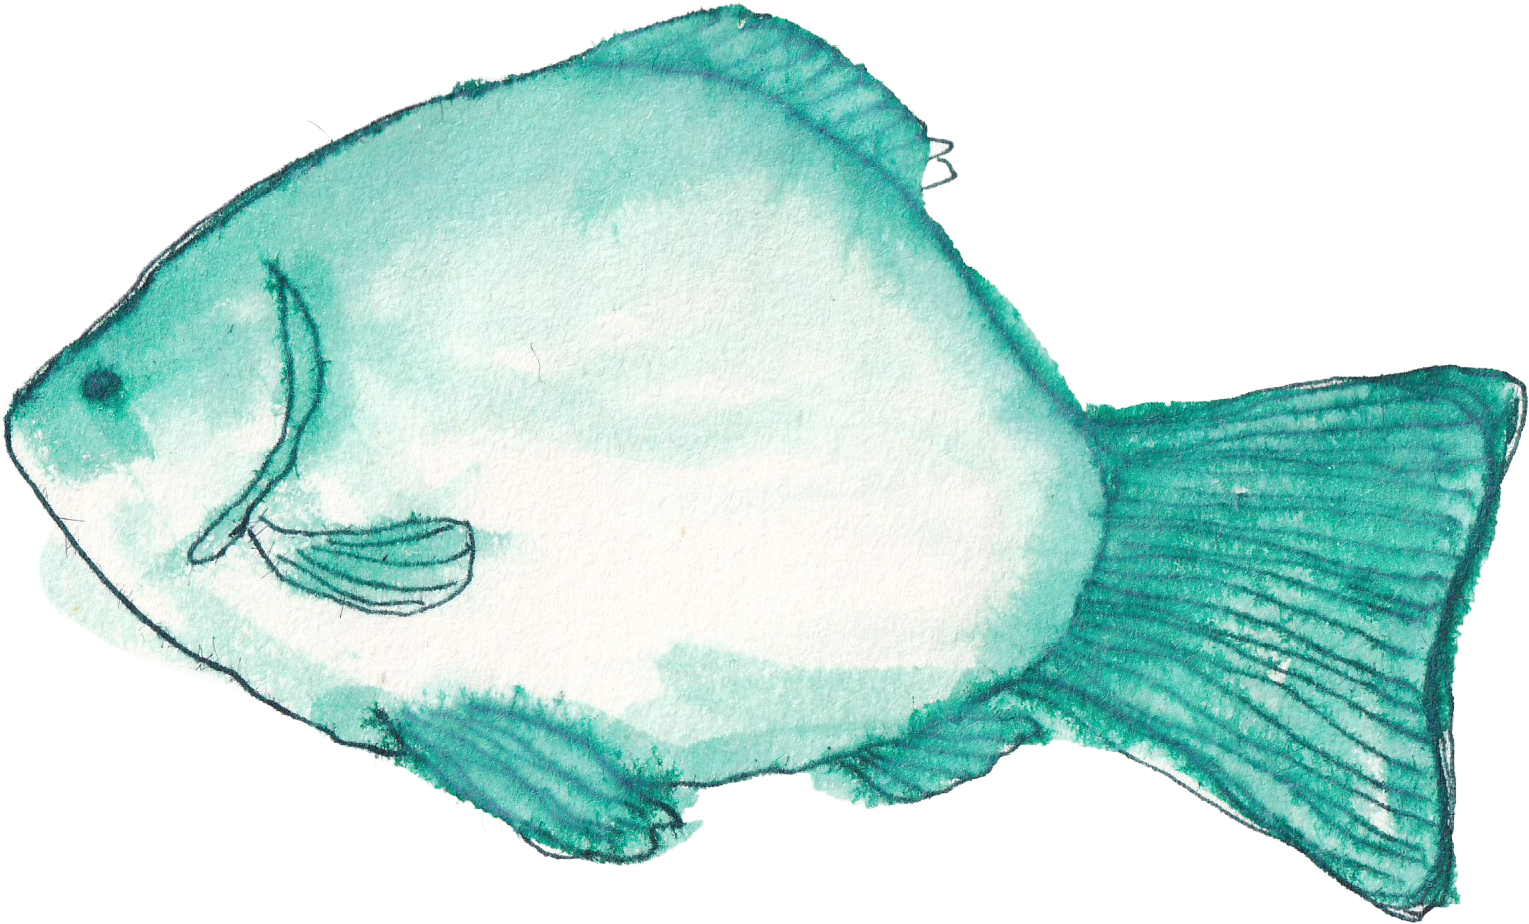
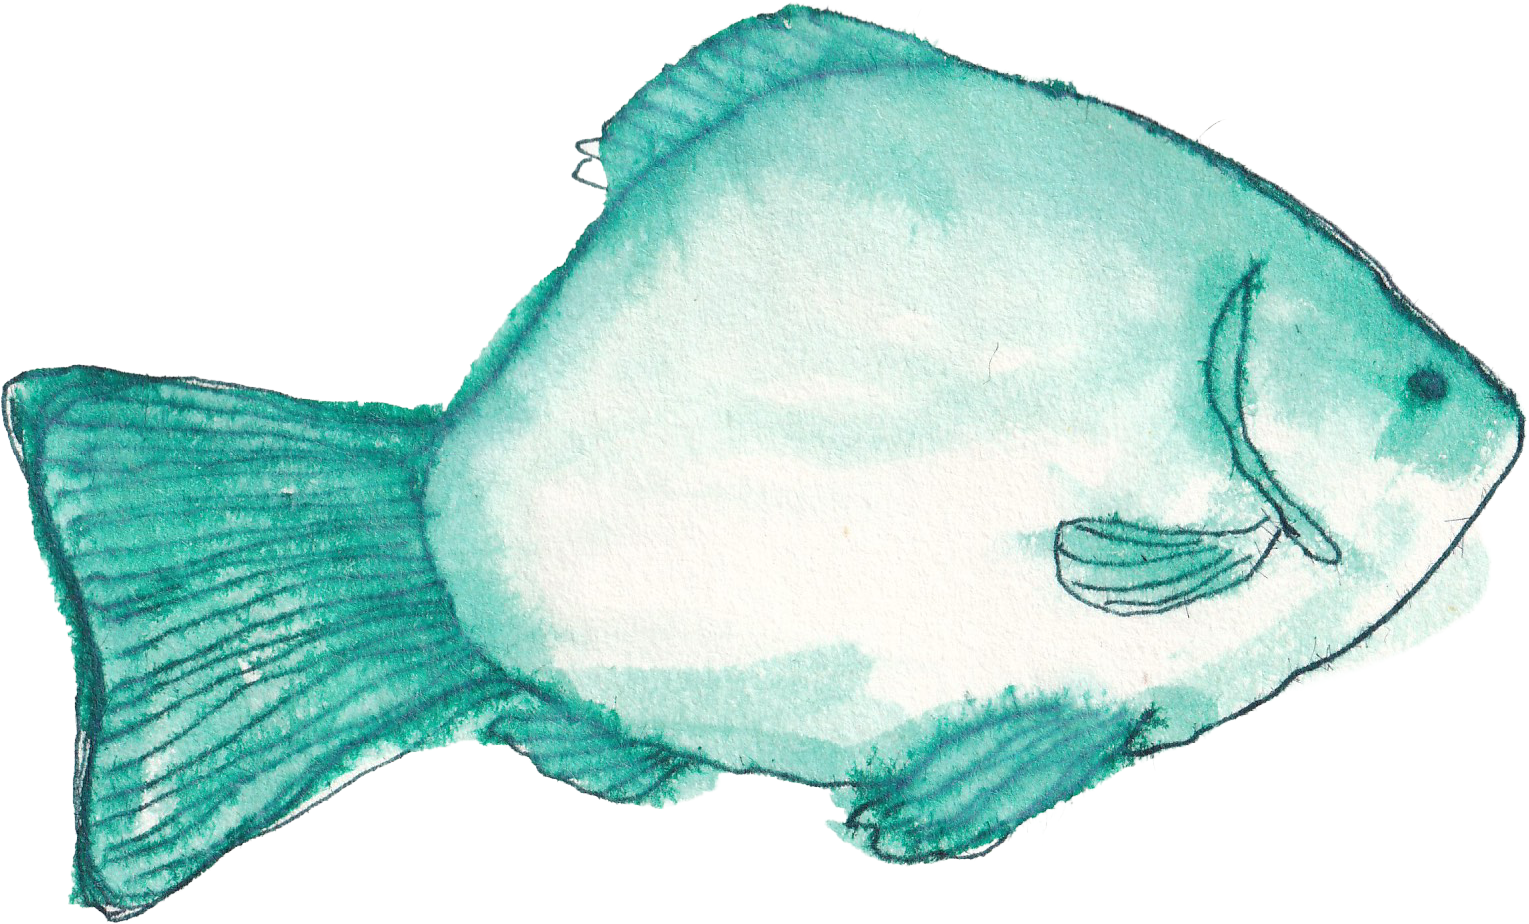
flip fish

diff --git a/src/views/fish.vue b/src/views/fish.vue
@@ -148,7 +148,7 @@ onBeforeUnmount(() => {
 
 <template>
   <div ref="container" class="container" @mousemove="onMouseMove" @mouseleave="onMouseLeave">
-    <img class="bg" src="@/assets/photos/fish/bg.jpg" alt="background" @load="init" />
+    <img class="bg" src="@/assets/photos/fish/bg3.png" alt="background" @load="init" />
     <img
       v-for="f in fishList"
       :key="f.id"
